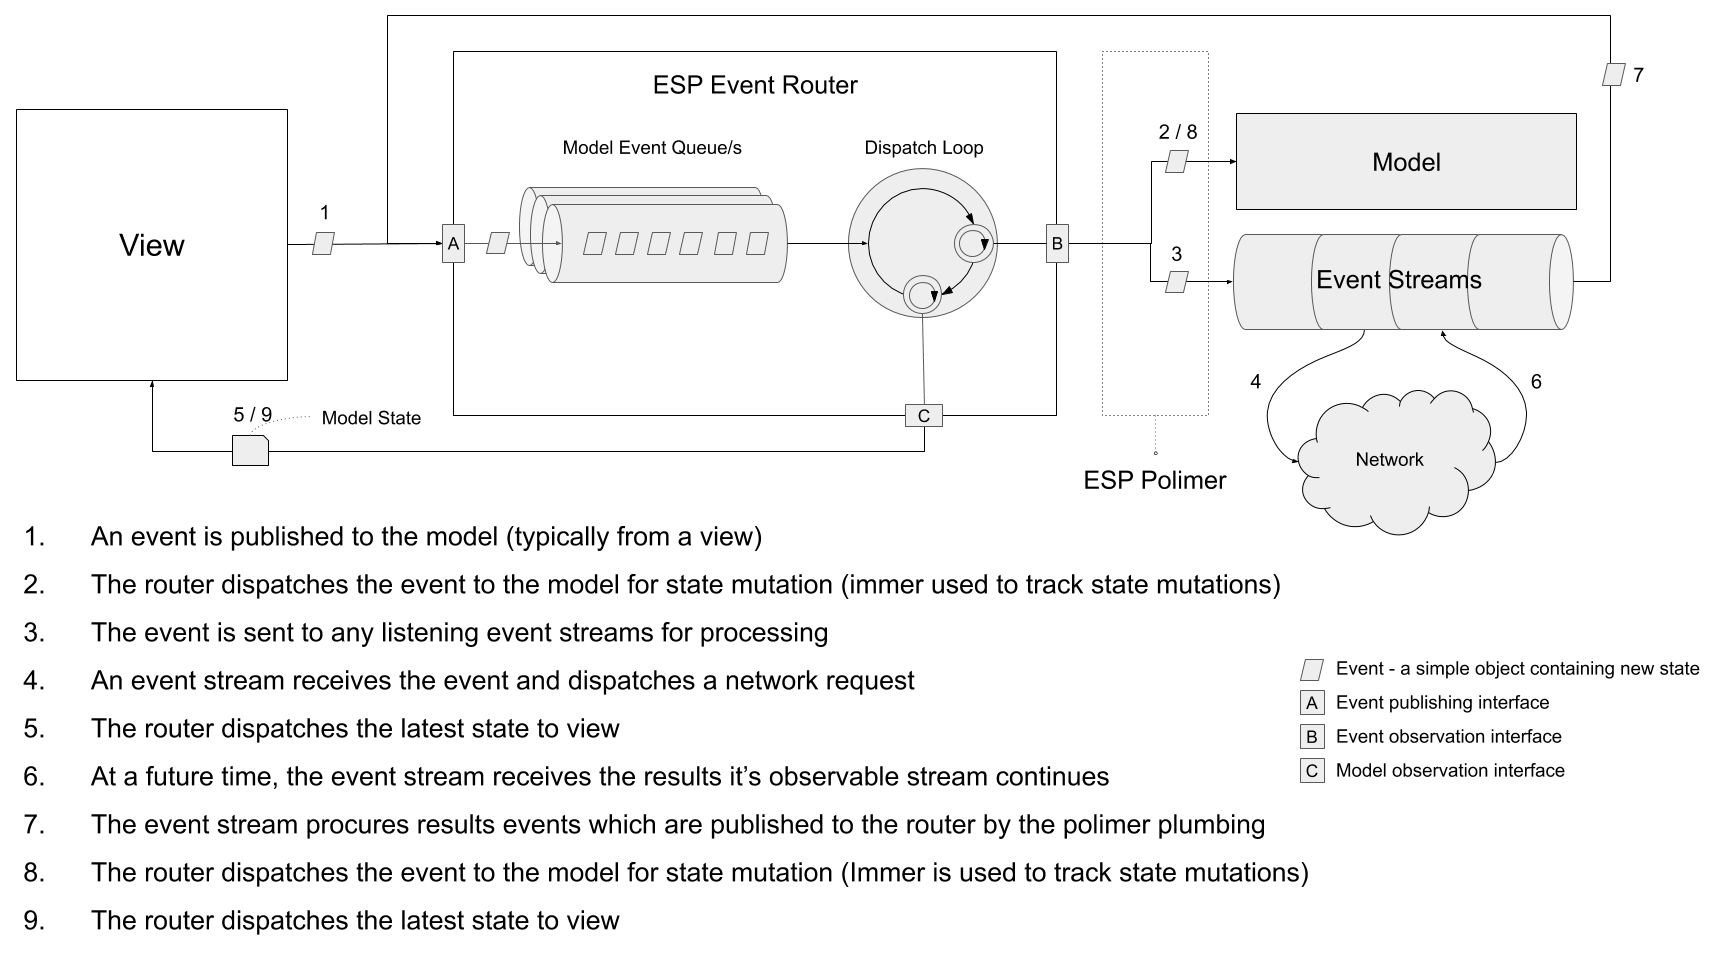
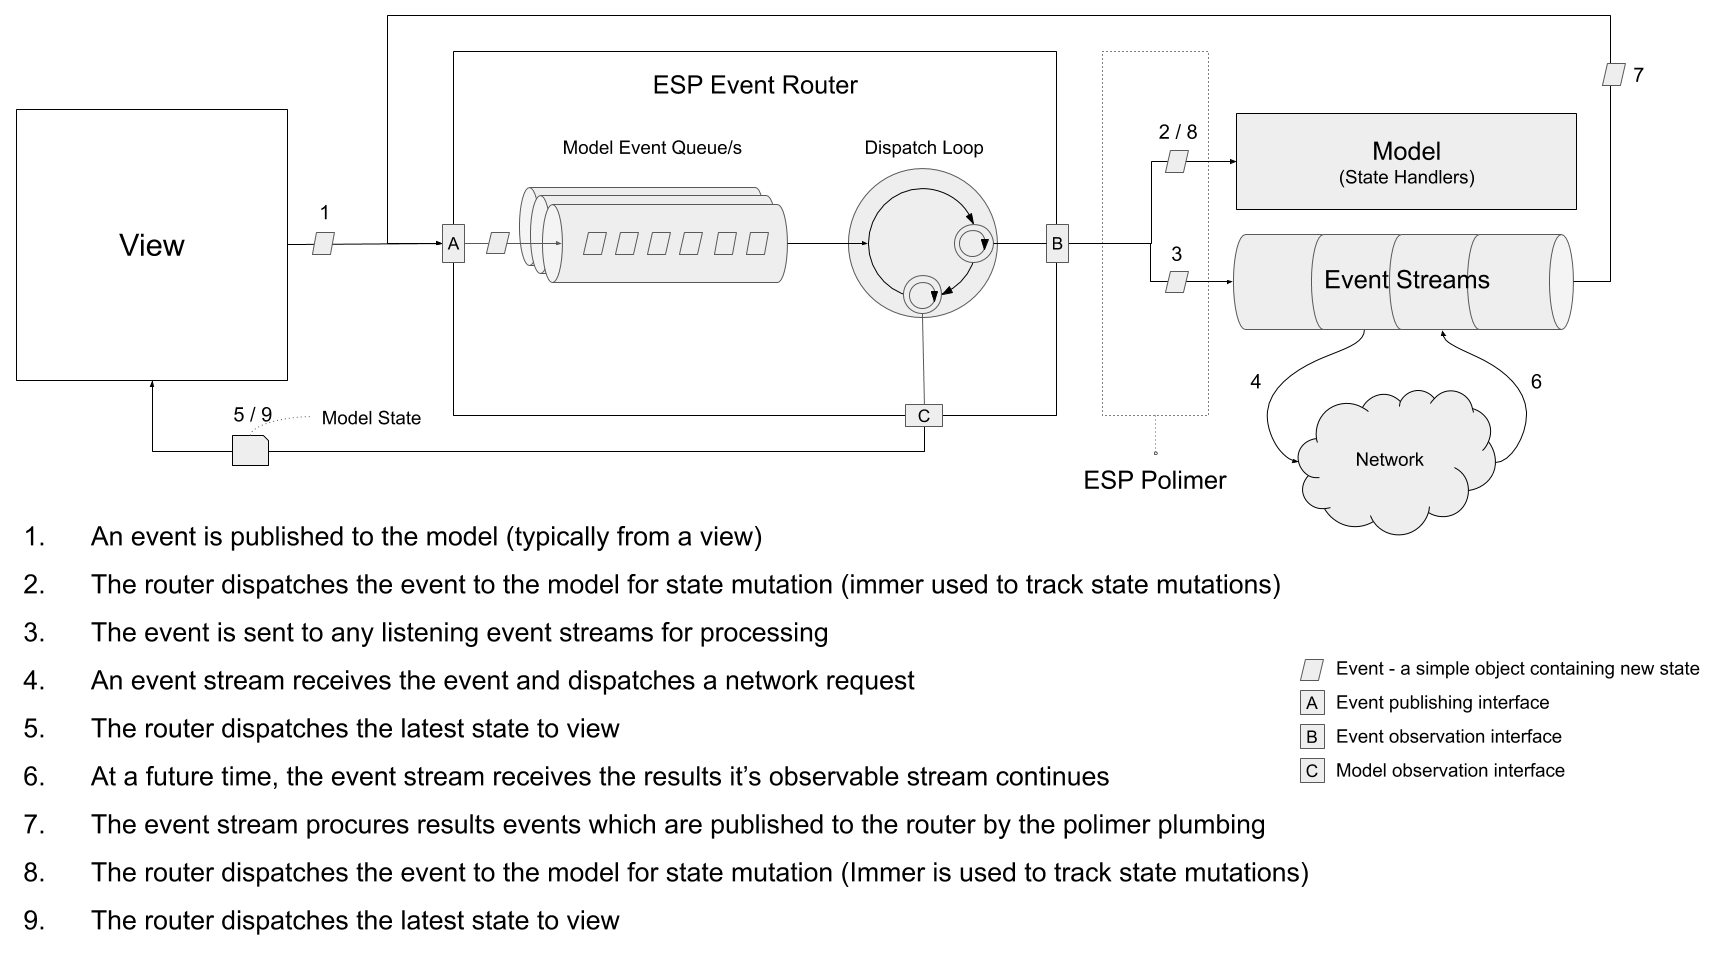
Updating esp-js-polimer overview

diff --git a/_docs/01-concepts/02-esp-js-polimer/01-index.md b/_docs/01-concepts/02-esp-js-polimer/01-index.md
@@ -3,5 +3,18 @@ title: ESP-JS-Polimer
 permalink: /concepts/esp-js-polimer/
 ---
 
-{% include draftdocs.html %}
+Due to various [issues with OO](../01-esp-js/04-oo-modeling.md#oo-woes) programming in the React world, a more immutable modeling approach was needed. 
+ESP Polimer solves that problem. 
+Given the underlying ESP `Router` makes no assumptions of how you manage your model, it was straight forward to add plumbing that support immutable patterns into a standalone package, esp-js-polimer.
+This package hooks onto the ESP `Router`s API and helps you register an immutable model, register any side effects (aka event streams) and ties your model into the determinstic state management pattern the `Router` provides. 
 
+The below diagram shows polimer as a layer between the router and the model.
+
+![](../../../images/gslides-polimer-overview.png){: .align-center}
+
+Overview of the bits:
+* [Model Builder](./02-model-builder.md) - a fluent API that hangs off the `Router`, make it easy to create the pluming required for a new model.
+* [Model & State Handlers](./03-state-handlers.md) - the model in a polimer implementation is effectively a root entity with a series of immutable states which hang of it. 
+  The state handlers are responsible for updating those states.
+* [Event Streams](./04-event-streams.md) - these streams simply have 'event in, event out' semantics. 
+  They are RXJS observable streams which are used for side effects and asynchronous operations.   

diff --git a/_docs/01-concepts/01-esp-js/02-event-router.md b/_docs/01-concepts/01-esp-js/02-event-router.md
@@ -86,5 +86,11 @@ However the full Rx API isn't suitable as introduction of asynchronicity and oth
 For example, a deferred model change by way of an asynchronous operation would happen outside of the [state change workflow](03-state-change-workflow.md).
 Then there is no guarantee the model would be still in a state suitable once the deferred event arrives.
 Similarly, relational operators combine event streams and store state in observable objects/closures, when a final result yields the underlying model may not be in a state suitable for the target result.
+
+#### Does this matter?
+<br />
+Not really, you rarely use the underlying reactive interface. 
+[esp-js-polimer](../02-esp-js-polimer/01-index.md) does use RXJS for it's event streams implement as those streams do warrant a full featured reactive API.
+
 {% endcapture %}
 {% include callout-info.html content=info_1 title="Why not use Rx?" %}

diff --git a/_docs/01-concepts/02-esp-js-polimer/03-state-handlers.md b/_docs/01-concepts/02-esp-js-polimer/03-state-handlers.md
@@ -4,3 +4,11 @@ permalink: /concepts/esp-js-polimer/state-handlers/
 ---
 
 {% include draftdocs.html %}
+
+![](../../../images/gslides-polimer-standard-flow.png){: .align-center}
+
+Draft doc notes:
+* https://github.com/immerjs/immer
+* accessing other states
+* observeEvent signature
+* event workflow still available 

diff --git a/_docs/01-concepts/02-esp-js-polimer/04-event-streams.md b/_docs/01-concepts/02-esp-js-polimer/04-event-streams.md
@@ -4,3 +4,10 @@ permalink: /concepts/esp-js-polimer/event-streams/
 ---
 
 {% include draftdocs.html %}
+
+![](../../../images/gslides-polimer-async-flow.png){: .align-center}
+
+Draft doc notes:
+* They run at observation stage final
+  ![](../../../images/gslides-state-workflow.png){: .align-center}
+ 

diff --git a/_docs/01-concepts/01-esp-js/04-oo-modeling.md b/_docs/01-concepts/01-esp-js/04-oo-modeling.md
@@ -68,6 +68,7 @@ The below diagram outlines the typical flow in more details.
 
 ![](../../../images/gslides-oo-async-flow.png){: .align-center}
 
+<a name="oo-woes"></a>  
 ## To OO or Not to OO?
 There are some downsides to OO programing in the React world.
 
